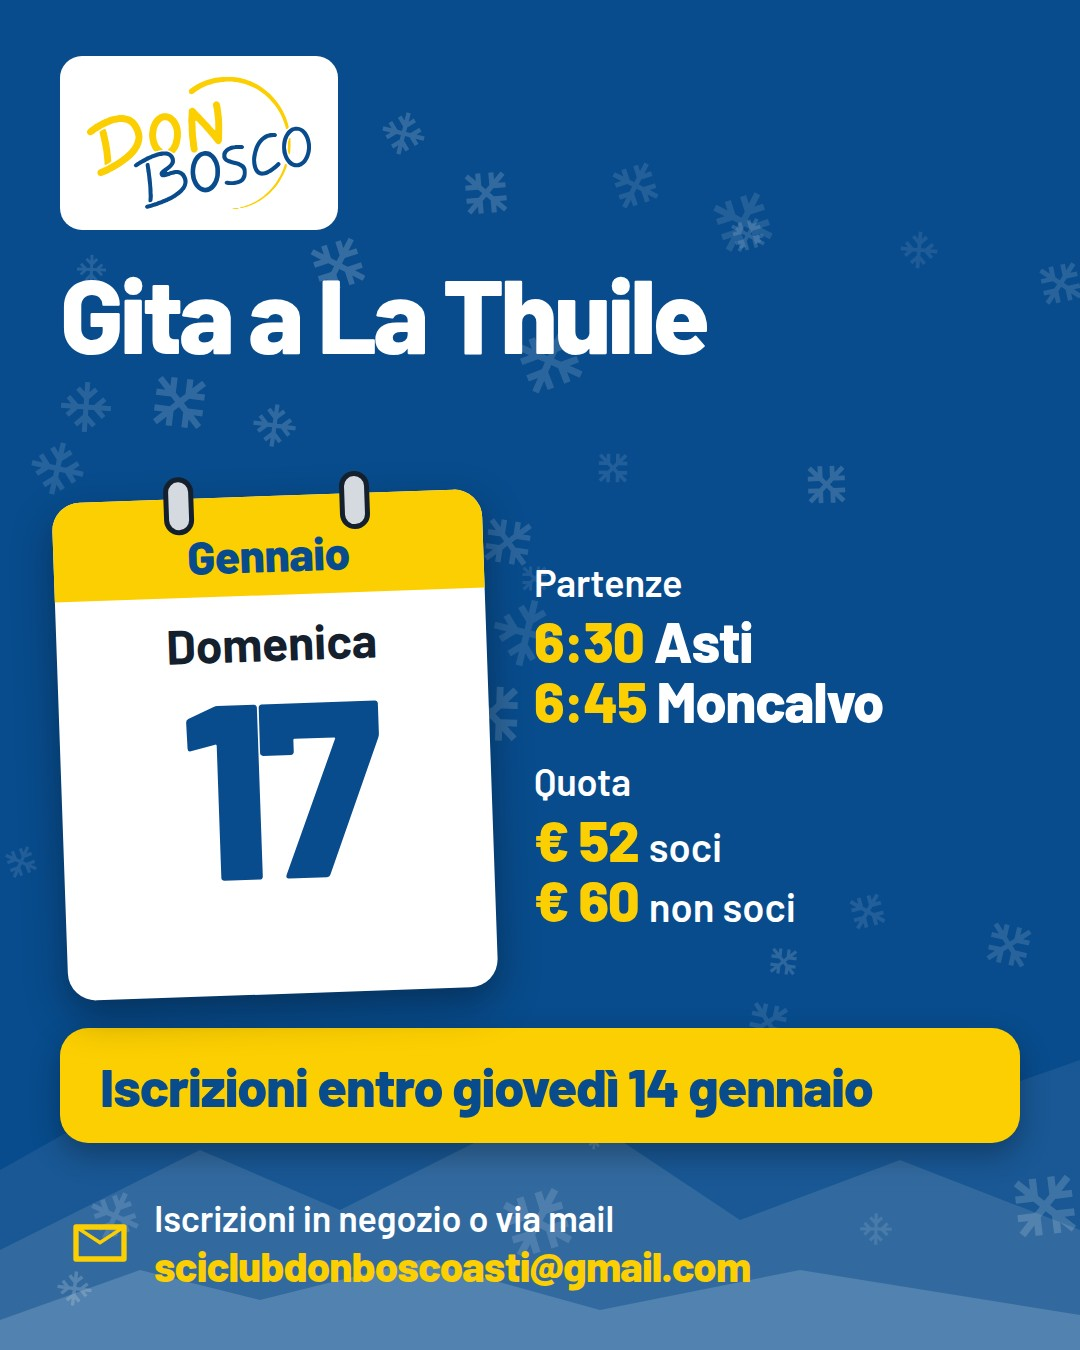
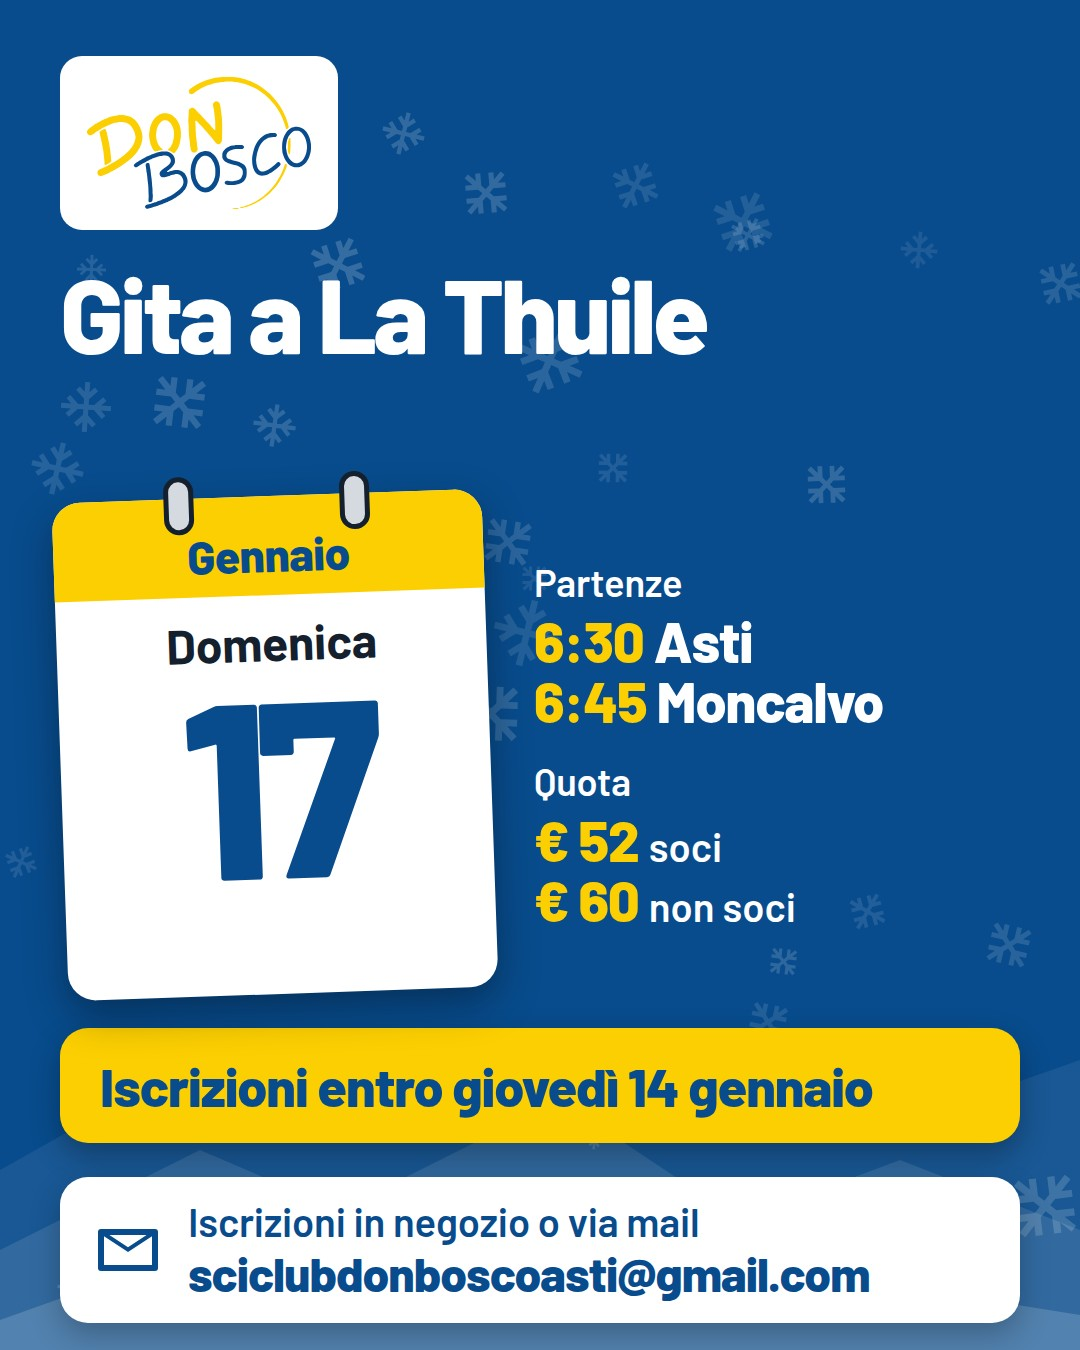
docs(social): C con nome, data e gancio; iscrizioni più grandi e nel riquadro [skip ci]
C: in alto il nome (Ginnastica presciistica, Gita a La Thuile...), nella
fascia la data, sotto il gancio (Alzati dal divano!, Tutti in pista!...) e i
dati, così si capisce subito cos'è e quando. Orari, prezzi e scadenze con
un solo stile in tutti i post: riquadro bianco con la scritta blu, che si
legge sul giallo e sul blu.

Iscrizioni in negozio o via mail più grandi in tutte e tre le proposte
(40 e 46-48 px); in B e C in un riquadro bianco come il resto in
evidenza. Nella story del corso A l'indirizzo resta a 46 px per starci.

Changed region(s): [[0.0306, 0.8711, 0.9472, 0.9956]]

diff --git a/grafica/proposte-post-social/sorgenti/evento-c.html b/grafica/proposte-post-social/sorgenti/evento-c.html
@@ -8,12 +8,8 @@
 <link rel="stylesheet" href="c.css">
 <!-- Evento: il blu del club, gancio e nastro gialli come il calendario; si brinda con lo spumante. -->
 <style>
-html { --cat: #084C8D; --cat-ink: #fff; --gancio: #FCCF02; --nastro: #FCCF02; --nastro-ink: #084C8D; --evid-bg: transparent; --evid-ink: #FCCF02; }
+html { --cat: #084C8D; --cat-ink: #fff; --gancio: #FCCF02; --nastro: #FCCF02; --nastro-ink: #084C8D; }
 .info .quando { font-size: 56px; }
-/* Il disegno accanto al gancio: sotto, i dati sono tanti e non gli lascerebbero posto. */
-.su { flex: none; display: flex; gap: 10px; margin-top: 28px; height: 450px; margin-bottom: -14px; }
-.su .gancio { margin-top: 0; }
-.su svg { flex: 1 1 auto; height: 100%; }
 </style>
 </head>
 <body>
@@ -22,33 +18,33 @@ html { --cat: #084C8D; --cat-ink: #fff; --gancio: #FCCF02; --nastro: #FCCF02; --
     <div class="testa">
       <div class="logo-box"><img src="../../logo/logo_sciclubdonbosco.svg" alt="Sci Club Don Bosco"></div>
     </div>
-    <div class="su">
-      <div class="gancio">Si chiude<br>in festa!</div>
-      <!-- Due calici che brindano, con le scintille. -->
-      <svg viewBox="250 -10 280 300" preserveAspectRatio="xMidYMax meet" aria-hidden="true">
-        <g transform="rotate(14 330 300)">
-          <path d="M275 60 C275 150 295 176 330 179 C365 176 385 150 385 60 Z" fill="#fff"/>
-          <path d="M279 112 C283 160 300 173 330 175 C360 173 377 160 381 112 Z" fill="#FCCF02"/>
-          <rect x="325" y="178" width="10" height="96" fill="#fff"/>
-          <ellipse cx="330" cy="276" rx="46" ry="10" fill="#fff"/>
-        </g>
-        <g transform="rotate(-14 450 300)">
-          <path d="M395 60 C395 150 415 176 450 179 C485 176 505 150 505 60 Z" fill="#fff"/>
-          <path d="M399 112 C403 160 420 173 450 175 C480 173 497 160 501 112 Z" fill="#FCCF02"/>
-          <rect x="445" y="178" width="10" height="96" fill="#fff"/>
-          <ellipse cx="450" cy="276" rx="46" ry="10" fill="#fff"/>
-        </g>
-        <g fill="#fff">
-          <polygon points="390,0 400,26 426,30 404,44 410,70 390,56 370,70 376,44 354,30 380,26"/>
-          <circle cx="320" cy="20" r="8"/><circle cx="462" cy="18" r="8"/><circle cx="292" cy="58" r="6"/><circle cx="490" cy="56" r="6"/>
-        </g>
-      </svg>
+    <div class="gancio">Cena di fine<br>stagione</div>
+    <div class="scena">
+        <!-- Due calici che brindano, con le scintille. -->
+        <svg viewBox="250 -10 280 300" preserveAspectRatio="xMidYMid meet" aria-hidden="true">
+          <g transform="rotate(14 330 300)">
+            <path d="M275 60 C275 150 295 176 330 179 C365 176 385 150 385 60 Z" fill="#fff"/>
+            <path d="M279 112 C283 160 300 173 330 175 C360 173 377 160 381 112 Z" fill="#FCCF02"/>
+            <rect x="325" y="178" width="10" height="96" fill="#fff"/>
+            <ellipse cx="330" cy="276" rx="46" ry="10" fill="#fff"/>
+          </g>
+          <g transform="rotate(-14 450 300)">
+            <path d="M395 60 C395 150 415 176 450 179 C485 176 505 150 505 60 Z" fill="#fff"/>
+            <path d="M399 112 C403 160 420 173 450 175 C480 173 497 160 501 112 Z" fill="#FCCF02"/>
+            <rect x="445" y="178" width="10" height="96" fill="#fff"/>
+            <ellipse cx="450" cy="276" rx="46" ry="10" fill="#fff"/>
+          </g>
+          <g fill="#fff">
+            <polygon points="390,0 400,26 426,30 404,44 410,70 390,56 370,70 376,44 354,30 380,26"/>
+            <circle cx="320" cy="20" r="8"/><circle cx="462" cy="18" r="8"/><circle cx="292" cy="58" r="6"/><circle cx="490" cy="56" r="6"/>
+          </g>
+        </svg>
     </div>
-    <div class="nastro">Cena di fine stagione</div>
+    <div class="nastro">Sabato 10 aprile</div>
     <div class="info">
-      <div class="quando">Sabato 10 aprile · <b>ore 20:00</b></div>
+      <div class="quando">Si chiude in festa!</div>
       <div class="riga">Salone dell'oratorio Don Bosco, Asti</div>
-      <div class="riga">Soci <b>€ 30</b> · bambini <b>€ 15</b></div>
+      <div class="riga"><b>Ore 20:00</b> · soci <b>€ 30</b> · bambini <b>€ 15</b></div>
       <div class="poi">Con le premiazioni della gara sociale</div>
       <div class="poi">Iscrizioni entro <b>mercoledì 7 aprile</b></div>
     </div>

diff --git a/grafica/proposte-post-social/sorgenti/corso-c.html b/grafica/proposte-post-social/sorgenti/corso-c.html
@@ -24,7 +24,7 @@ html.story .contenuto { top: 262px; bottom: 352px; }
  * sempre nello stesso punto. */
 .gancio { flex: none; height: 270px; font-size: 150px; font-weight: 800; letter-spacing: -.045em; line-height: .9; margin-top: 28px; }
 html.story .gancio { height: auto; }
-html.story .gancio { font-size: 176px; margin-top: 44px; }
+html.story .gancio { font-size: 150px; margin-top: 44px; }
 
 .scena { flex: 1 1 0; min-height: 0; position: relative; z-index: 1; margin-bottom: -14px; }
 html.post .scena { flex: none; height: 180px; }
@@ -41,13 +41,14 @@ html.post .info { flex: 1 1 auto; }
 .info .dove { font-size: 46px; font-weight: 700; margin-top: 8px; line-height: 1.15; }
 .info .poi { font-size: 40px; font-weight: 600; margin-top: 8px; line-height: 1.2; }
 /* Orari e date evidenziati come col pennarello, come negli altri post di C. */
-.info b { font-weight: 800; background: var(--blu); color: var(--giallo); padding: 0 .16em; border-radius: .14em; }
+.info b { font-weight: 800; background: #fff; color: var(--blu); padding: 0 .16em; border-radius: .14em; }
 /* Iscrizioni e mail, come in fondo al biglietto di A. */
-.iscrizioni { flex: none; display: flex; gap: 20px; align-items: center; margin-top: 26px; padding-top: 22px;
-  border-top: 4px dashed rgba(6,57,106,.35); }
-.iscrizioni svg { flex: none; width: 60px; height: 60px; }
-.iscrizioni div { font-size: 36px; font-weight: 600; line-height: 1.2; }
-.iscrizioni b { display: block; font-size: 42px; font-weight: 800; letter-spacing: -.02em; }
+/* Iscrizioni in un riquadro bianco, come negli altri post di C. */
+.iscrizioni { flex: none; display: flex; gap: 24px; align-items: center; margin-top: 20px; padding: 18px 30px;
+  background: #fff; color: var(--blu); border-radius: 24px; }
+.iscrizioni svg { flex: none; width: 72px; height: 72px; }
+.iscrizioni div { font-size: 40px; font-weight: 600; line-height: 1.2; }
+.iscrizioni b { display: block; font-size: 48px; font-weight: 800; letter-spacing: -.02em; }
 html.story .info { margin-top: 44px; }
 html.story .info .quando { font-size: 66px; }
 html.story .info .dove { font-size: 56px; }
@@ -63,7 +64,7 @@ html.story .iscrizioni svg { width: 70px; height: 70px; }
     <div class="testa">
       <div class="logo-box"><img src="../../logo/logo_sciclubdonbosco.svg" alt="Sci Club Don Bosco"></div>
     </div>
-    <div class="gancio">Alzati<br>dal divano!</div>
+    <div class="gancio">Ginnastica<br>presciistica</div>
     <div class="scena">
       <!-- Il divano vuoto e gli sci appoggiati. -->
       <svg viewBox="0 0 780 370" preserveAspectRatio="xMidYMax meet" aria-hidden="true">
@@ -97,11 +98,11 @@ html.story .iscrizioni svg { width: 70px; height: 70px; }
         </g>
       </svg>
     </div>
-    <div class="nastro">Ginnastica presciistica</div>
+    <div class="nastro">Mercoledì 21 ottobre</div>
     <div class="info">
-      <div class="quando">Mercoledì 21 ottobre · <b>ore 19:30</b></div>
-      <div class="dove">Palestra Way Assauto, Asti</div>
-      <div class="poi">poi tutti i mercoledì fino al <b>13 gennaio</b></div>
+      <div class="quando">Alzati dal divano!</div>
+      <div class="dove"><b>Ore 19:30</b> · Palestra Way Assauto, Asti</div>
+      <div class="poi">Poi tutti i mercoledì fino al <b>13 gennaio</b></div>
       <div class="poi">Lezioni di un'ora · soci tesserati e assicurati</div>
     </div>
     <div class="iscrizioni">

diff --git a/grafica/proposte-post-social/sorgenti/c.css b/grafica/proposte-post-social/sorgenti/c.css
@@ -1,7 +1,8 @@
 /* C · Manifesto (era "Divano") per gite, calendario ed eventi. Il fondo è il
  * colore della categoria (--cat) e si scrive nel suo inchiostro (--cat-ink):
- * sul giallo solo blu scuro (brand-guidelines §1). Un gancio enorme, un
- * disegno, il nastro col nome, sotto i dati e le iscrizioni. Solo post 4:5. */
+ * sul giallo solo blu (brand-guidelines §1). In alto il nome, enorme (classe
+ * .gancio), un disegno, nella fascia la data; sotto il gancio ("Tutti in
+ * pista!"), i dati e le iscrizioni. Solo post 4:5. */
 .cv { background: var(--cat); color: var(--cat-ink); }
 .contenuto { position: absolute; left: 64px; right: 64px; top: 56px; bottom: 56px; display: flex; flex-direction: column; }
 
@@ -24,13 +25,14 @@
 .info .quando { font-size: 58px; font-weight: 800; letter-spacing: -.025em; line-height: 1.1; }
 .info .riga { font-size: 46px; font-weight: 700; margin-top: 8px; line-height: 1.15; }
 .info .poi { font-size: 40px; font-weight: 600; margin-top: 8px; line-height: 1.2; }
-/* Orari, prezzi e scadenze evidenziati: blu con la scritta gialla sui post gialli,
- * gialli sui post blu (--evid-bg, --evid-ink nel singolo post). */
-.info b { font-weight: 800; background: var(--evid-bg, var(--blu)); color: var(--evid-ink, var(--giallo)); padding: 0 .16em; border-radius: .14em;
+/* Orari, prezzi e scadenze: riquadro bianco con la scritta blu, uguale sul giallo
+ * e sul blu (contrasto 8,7:1). Lo stesso bianco delle iscrizioni qui sotto. */
+.info b { font-weight: 800; background: #fff; color: var(--blu); padding: 0 .16em; border-radius: .14em;
   -webkit-box-decoration-break: clone; box-decoration-break: clone; }
 
-.iscrizioni { flex: none; display: flex; gap: 20px; align-items: center; margin-top: 24px; padding-top: 20px;
-  border-top: 4px dashed currentColor; }
-.iscrizioni svg { flex: none; width: 60px; height: 60px; fill: currentColor; }
-.iscrizioni div { font-size: 36px; font-weight: 600; line-height: 1.2; }
-.iscrizioni b { display: block; font-size: 42px; font-weight: 800; letter-spacing: -.02em; }
+/* Iscrizioni in un riquadro bianco, più grandi: si devono vedere in tutti i post. */
+.iscrizioni { flex: none; display: flex; gap: 24px; align-items: center; margin-top: 20px; padding: 18px 30px;
+  background: #fff; color: var(--blu); border-radius: 24px; }
+.iscrizioni svg { flex: none; width: 72px; height: 72px; fill: currentColor; }
+.iscrizioni div { font-size: 40px; font-weight: 600; line-height: 1.2; }
+.iscrizioni b { display: block; font-size: 48px; font-weight: 800; letter-spacing: -.02em; }

diff --git a/grafica/proposte-post-social/sorgenti/corso-b.html b/grafica/proposte-post-social/sorgenti/corso-b.html
@@ -61,10 +61,12 @@ html.post .titolo { font-size: 104px; min-height: calc(2 * .95 * 104px); }
 .durata .frase em { font-style: normal; }
 
 /* Iscrizioni e mail, come in fondo al biglietto di A. */
-.iscrizioni { margin-top: auto; display: flex; gap: 22px; align-items: center; color: #fff; padding: 0 8px; }
-.iscrizioni svg { flex: none; width: calc(64px * var(--k)); height: calc(64px * var(--k)); }
-.iscrizioni div { font-size: calc(36px * var(--k)); font-weight: 600; line-height: 1.2; }
-.iscrizioni b { display: block; font-size: calc(42px * var(--k)); font-weight: 800; color: var(--giallo); letter-spacing: -.02em; }
+/* Iscrizioni in un riquadro bianco, più grandi: si devono vedere. */
+.iscrizioni { margin-top: auto; display: flex; gap: 24px; align-items: center; background: #fff; color: var(--blu);
+  border-radius: 28px; padding: 20px 32px; box-shadow: 0 12px 30px rgba(0,0,0,.25); }
+.iscrizioni svg { flex: none; width: 72px; height: 72px; }
+.iscrizioni div { font-size: 40px; font-weight: 600; line-height: 1.2; }
+.iscrizioni b { display: block; font-size: 48px; font-weight: 800; color: var(--blu); letter-spacing: -.02em; }
 </style>
 </head>
 <body>
@@ -102,7 +104,7 @@ html.post .titolo { font-size: 104px; min-height: calc(2 * .95 * 104px); }
       <div class="frase">Tutti i <em>mercoledì</em> <span style="white-space:nowrap">fino al 13 gennaio</span></div>
     </div>
     <div class="iscrizioni">
-      <svg viewBox="0 0 24 24" fill="#FCCF02" aria-hidden="true"><path d="M3 5h18a1 1 0 0 1 1 1v12a1 1 0 0 1-1 1H3a1 1 0 0 1-1-1V6a1 1 0 0 1 1-1zm1 2.4V17h16V7.4l-8 5.3-8-5.3zM5.8 7 12 11.1 18.2 7H5.8z"/></svg>
+      <svg viewBox="0 0 24 24" fill="#084C8D" aria-hidden="true"><path d="M3 5h18a1 1 0 0 1 1 1v12a1 1 0 0 1-1 1H3a1 1 0 0 1-1-1V6a1 1 0 0 1 1-1zm1 2.4V17h16V7.4l-8 5.3-8-5.3zM5.8 7 12 11.1 18.2 7H5.8z"/></svg>
       <div>Iscrizioni in negozio o via mail<b>sciclubdonboscoasti@gmail.com</b></div>
     </div>
   </div>

diff --git a/grafica/proposte-post-social/sorgenti/corso-a.html b/grafica/proposte-post-social/sorgenti/corso-a.html
@@ -55,14 +55,16 @@ html.post h1 { min-height: calc(2 * .98 * 104px + 58px); }
 .fatti .nw { white-space: nowrap; }
 /* Story: corpi fissi, non scalati, per stare nel biglietto senza scendere sotto i 44 px. */
 html.story h1 { font-size: 134px; }
+html.story .iscrizioni div { font-size: 44px; }
+html.story .iscrizioni b { font-size: 46px; }
 html.story .fatti dt { font-size: 44px; }
 html.story .fatti dd { font-size: 56px; }
 
 .iscrizioni { flex: none; margin: 0 40px; border-top: 4px dashed var(--filo);
   padding: calc(20px * var(--k)) 16px calc(26px * var(--k)); display: flex; gap: 22px; align-items: center; }
-.iscrizioni svg { flex: none; width: calc(64px * var(--k)); height: calc(64px * var(--k)); }
-.iscrizioni div { font-size: calc(36px * var(--k)); font-weight: 600; line-height: 1.2; }
-.iscrizioni b { display: block; font-size: calc(40px * var(--k)); font-weight: 800; color: var(--accento); letter-spacing: -.02em; }
+.iscrizioni svg { flex: none; width: calc(70px * var(--k)); height: calc(70px * var(--k)); }
+.iscrizioni div { font-size: calc(40px * var(--k)); font-weight: 600; line-height: 1.2; }
+.iscrizioni b { display: block; font-size: calc(46px * var(--k)); font-weight: 800; color: var(--accento); letter-spacing: -.02em; }
 
 .firma { display: none; }
 html.story .firma { display: block; position: absolute; left: 0; right: 0; top: 1640px; text-align: center;

diff --git a/grafica/proposte-post-social/sorgenti/b.css b/grafica/proposte-post-social/sorgenti/b.css
@@ -42,7 +42,9 @@
   box-shadow: 0 12px 30px rgba(0,0,0,.3); font-size: 54px; font-weight: 800; letter-spacing: -.02em; line-height: 1.1; }
 .evidenza em { font-style: normal; }
 
-.iscrizioni { margin-top: auto; display: flex; gap: 22px; align-items: center; color: #fff; padding: 0 8px; }
-.iscrizioni svg { flex: none; width: 64px; height: 64px; }
-.iscrizioni div { font-size: 36px; font-weight: 600; line-height: 1.2; }
-.iscrizioni b { display: block; font-size: 42px; font-weight: 800; color: var(--giallo); letter-spacing: -.02em; }
+/* Iscrizioni in un riquadro bianco, più grandi: si devono vedere. */
+.iscrizioni { margin-top: auto; display: flex; gap: 24px; align-items: center; background: #fff; color: var(--blu);
+  border-radius: 28px; padding: 20px 32px; box-shadow: 0 12px 30px rgba(0,0,0,.25); }
+.iscrizioni svg { flex: none; width: 72px; height: 72px; }
+.iscrizioni div { font-size: 40px; font-weight: 600; line-height: 1.2; }
+.iscrizioni b { display: block; font-size: 48px; font-weight: 800; color: var(--blu); letter-spacing: -.02em; }

diff --git a/grafica/proposte-post-social/sorgenti/gita-c.html b/grafica/proposte-post-social/sorgenti/gita-c.html
@@ -15,7 +15,7 @@
     <div class="testa">
       <div class="logo-box"><img src="../../logo/logo_sciclubdonbosco.svg" alt="Sci Club Don Bosco"></div>
     </div>
-    <div class="gancio">Tutti a<br>La Thuile!</div>
+    <div class="gancio">Gita a<br>La Thuile</div>
     <div class="scena">
       <!-- Il pullman della gita, con gli sci sul tetto. -->
       <svg viewBox="0 0 780 370" preserveAspectRatio="xMidYMax meet" aria-hidden="true">
@@ -37,9 +37,9 @@
         <circle cx="590" cy="322" r="44" fill="#14202E"/><circle cx="590" cy="322" r="18" fill="#D5DAE1"/>
       </svg>
     </div>
-    <div class="nastro">Gita sociale</div>
+    <div class="nastro">Domenica 17 gennaio</div>
     <div class="info">
-      <div class="quando">Domenica 17 gennaio</div>
+      <div class="quando">Tutti in pista!</div>
       <div class="riga">Partenze: <b>ore 6:30</b> Asti · <b>ore 6:45</b> Moncalvo</div>
       <div class="riga">Soci <b>€ 52</b> · non soci <b>€ 60</b></div>
       <div class="poi">Iscrizioni entro <b>giovedì 14 gennaio</b></div>

diff --git a/grafica/proposte-post-social/sorgenti/tavola.html b/grafica/proposte-post-social/sorgenti/tavola.html
@@ -29,7 +29,7 @@ img { display: block; width: 380px; border-radius: 12px; box-shadow: 0 6px 20px 
 const PROPOSTE = {
   a: { nome: "Biglietto", idea: "Il biglietto bianco sul colore del post, in alto la foto caricata nel generatore (senza foto, il disegno)." },
   b: { nome: "Calendario", idea: "Sempre il blu del club; il foglio a strappo porta la data; nel calendario, le gite del mese sul foglio." },
-  c: { nome: "Divano", idea: "Il manifesto: un gancio grande scritto per ogni post («Alzati dal divano!», «Tutti a La Thuile!»…) e un disegno." },
+  c: { nome: "Divano", idea: "Il manifesto: in alto il nome grande, nella fascia la data, sotto il gancio («Alzati dal divano!», «Tutti in pista!»…) e i dati." },
 };
 const chiave = location.hash.slice(1) in PROPOSTE ? location.hash.slice(1) : "a", p = PROPOSTE[chiave];
 document.getElementById("titolo").innerHTML = `<b>${chiave.toUpperCase()}</b> · ${p.nome}: corso, gita, evento e calendario`;

diff --git a/grafica/proposte-post-social/sorgenti/evento-b.html b/grafica/proposte-post-social/sorgenti/evento-b.html
@@ -42,7 +42,7 @@ html { --cat: #FCCF02; --cat-ink: #084C8D; --cat-txt: #084C8D; }
     </div>
     <div class="evidenza">Iscrizioni <em>entro mercoledì 7 aprile</em></div>
     <div class="iscrizioni">
-      <svg viewBox="0 0 24 24" fill="#FCCF02" aria-hidden="true"><path d="M3 5h18a1 1 0 0 1 1 1v12a1 1 0 0 1-1 1H3a1 1 0 0 1-1-1V6a1 1 0 0 1 1-1zm1 2.4V17h16V7.4l-8 5.3-8-5.3zM5.8 7 12 11.1 18.2 7H5.8z"/></svg>
+      <svg viewBox="0 0 24 24" fill="#084C8D" aria-hidden="true"><path d="M3 5h18a1 1 0 0 1 1 1v12a1 1 0 0 1-1 1H3a1 1 0 0 1-1-1V6a1 1 0 0 1 1-1zm1 2.4V17h16V7.4l-8 5.3-8-5.3zM5.8 7 12 11.1 18.2 7H5.8z"/></svg>
       <div>Iscrizioni in negozio o via mail<b>sciclubdonboscoasti@gmail.com</b></div>
     </div>
   </div>

diff --git a/grafica/proposte-post-social/sorgenti/a.css b/grafica/proposte-post-social/sorgenti/a.css
@@ -43,6 +43,6 @@ h1 { min-height: calc(2 * .98 * 104px + 58px); }
 
 .iscrizioni { flex: none; margin: 0 40px; border-top: 4px dashed var(--filo);
   padding: 20px 16px 26px; display: flex; gap: 22px; align-items: center; }
-.iscrizioni svg { flex: none; width: 64px; height: 64px; }
-.iscrizioni div { font-size: 36px; font-weight: 600; line-height: 1.2; }
-.iscrizioni b { display: block; font-size: 40px; font-weight: 800; color: var(--accento); letter-spacing: -.02em; }
+.iscrizioni svg { flex: none; width: 70px; height: 70px; }
+.iscrizioni div { font-size: 40px; font-weight: 600; line-height: 1.2; }
+.iscrizioni b { display: block; font-size: 46px; font-weight: 800; color: var(--accento); letter-spacing: -.02em; }

diff --git a/grafica/proposte-post-social/sorgenti/gita-b.html b/grafica/proposte-post-social/sorgenti/gita-b.html
@@ -39,7 +39,7 @@
     </div>
     <div class="evidenza">Iscrizioni <em>entro giovedì 14 gennaio</em></div>
     <div class="iscrizioni">
-      <svg viewBox="0 0 24 24" fill="#FCCF02" aria-hidden="true"><path d="M3 5h18a1 1 0 0 1 1 1v12a1 1 0 0 1-1 1H3a1 1 0 0 1-1-1V6a1 1 0 0 1 1-1zm1 2.4V17h16V7.4l-8 5.3-8-5.3zM5.8 7 12 11.1 18.2 7H5.8z"/></svg>
+      <svg viewBox="0 0 24 24" fill="#084C8D" aria-hidden="true"><path d="M3 5h18a1 1 0 0 1 1 1v12a1 1 0 0 1-1 1H3a1 1 0 0 1-1-1V6a1 1 0 0 1 1-1zm1 2.4V17h16V7.4l-8 5.3-8-5.3zM5.8 7 12 11.1 18.2 7H5.8z"/></svg>
       <div>Iscrizioni in negozio o via mail<b>sciclubdonboscoasti@gmail.com</b></div>
     </div>
   </div>

diff --git a/grafica/proposte-post-social/sorgenti/calendario-b.html b/grafica/proposte-post-social/sorgenti/calendario-b.html
@@ -50,7 +50,7 @@ html { --cat: #FCCF02; --cat-ink: #084C8D; }
       </div>
     </div>
     <div class="iscrizioni">
-      <svg viewBox="0 0 24 24" fill="#FCCF02" aria-hidden="true"><path d="M3 5h18a1 1 0 0 1 1 1v12a1 1 0 0 1-1 1H3a1 1 0 0 1-1-1V6a1 1 0 0 1 1-1zm1 2.4V17h16V7.4l-8 5.3-8-5.3zM5.8 7 12 11.1 18.2 7H5.8z"/></svg>
+      <svg viewBox="0 0 24 24" fill="#084C8D" aria-hidden="true"><path d="M3 5h18a1 1 0 0 1 1 1v12a1 1 0 0 1-1 1H3a1 1 0 0 1-1-1V6a1 1 0 0 1 1-1zm1 2.4V17h16V7.4l-8 5.3-8-5.3zM5.8 7 12 11.1 18.2 7H5.8z"/></svg>
       <div>Iscrizioni in negozio o via mail<b>sciclubdonboscoasti@gmail.com</b></div>
     </div>
   </div>
